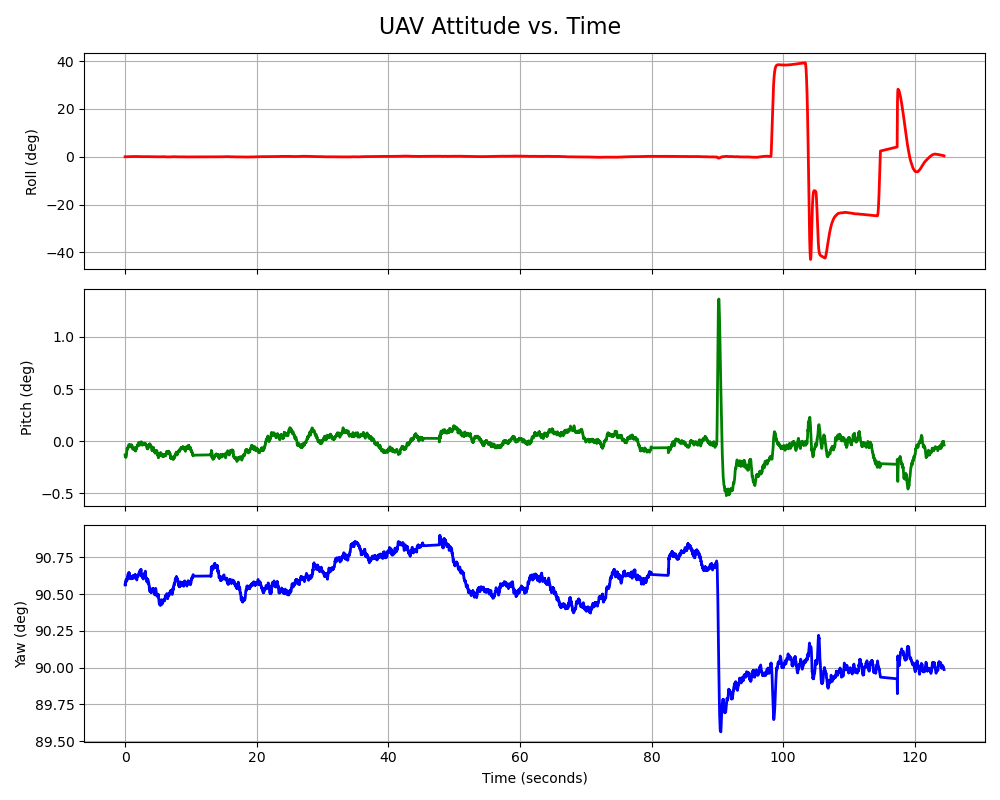
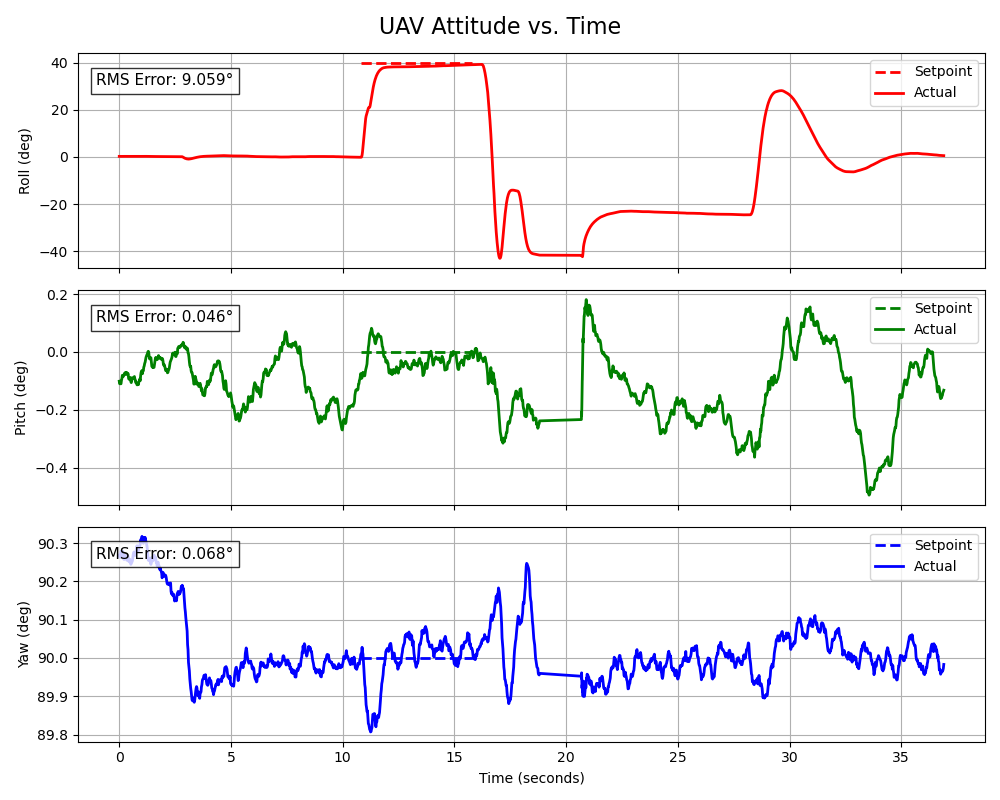
Updated data_recording script to calculate RMS and show setpoint regions on plots

diff --git a/data_recording/real_time_recorder.py b/data_recording/real_time_recorder.py
@@ -4,10 +4,12 @@ from rclpy.qos import qos_profile_sensor_data
 from px4_msgs.msg import VehicleLocalPosition
 from px4_msgs.msg import VehicleStatus
 from px4_msgs.msg import VehicleAttitude
+from px4_msgs.msg import VehicleAttitudeSetpoint # <-- ADDED IMPORT
 from rclpy.executors import ExternalShutdownException
 import matplotlib.pyplot as plt
 import time
 import math
+import numpy as np
 
 class local_position_plotter(Node):
     def __init__(self):
@@ -35,6 +37,13 @@ class local_position_plotter(Node):
             qos_profile_sensor_data
         )
 
+        self.attitude_sp_subscription = self.create_subscription(
+            VehicleAttitudeSetpoint,
+            '/fmu/in/vehicle_attitude_setpoint_v1',
+            self.attitude_setpoint_callback,
+            qos_profile_sensor_data
+        )
+
         # Start at 0 (Init)
         self.previous_arming_state = 0
         
@@ -48,6 +57,11 @@ class local_position_plotter(Node):
         self.pitch_data = []
         self.yaw_data = []
         
+        self.attitude_sp_times = []
+        self.roll_sp_data = []
+        self.pitch_sp_data = []
+        self.yaw_sp_data = []
+
         self.start_time = None
         self.get_logger().info('Position Plotter Node started. Recording data...')
         self.get_logger().info('Press Ctrl+C to stop recording and generate graphs.')
@@ -94,6 +108,34 @@ class local_position_plotter(Node):
         self.pitch_data.append(math.degrees(pitch))
         self.yaw_data.append(math.degrees(yaw))
 
+    # SETPOINT CALLBACK (Identical math, but uses msg.q_d)
+    def attitude_setpoint_callback(self, msg):
+        if self.start_time is None:
+            self.start_time = time.time()
+            
+        current_time = time.time() - self.start_time
+        
+        q = msg.q_d # Notice this is q_d for desired quaternion
+        
+        sinr_cosp = 2 * (q[0] * q[1] + q[2] * q[3])
+        cosr_cosp = 1 - 2 * (q[1] * q[1] + q[2] * q[2])
+        roll = math.atan2(sinr_cosp, cosr_cosp)
+
+        sinp = 2 * (q[0] * q[2] - q[3] * q[1])
+        if abs(sinp) >= 1:
+            pitch = math.copysign(math.pi / 2, sinp) 
+        else:
+            pitch = math.asin(sinp)
+
+        siny_cosp = 2 * (q[0] * q[3] + q[1] * q[2])
+        cosy_cosp = 1 - 2 * (q[2] * q[2] + q[3] * q[3])
+        yaw = math.atan2(siny_cosp, cosy_cosp)
+
+        self.attitude_sp_times.append(current_time)
+        self.roll_sp_data.append(math.degrees(roll))
+        self.pitch_sp_data.append(math.degrees(pitch))
+        self.yaw_sp_data.append(math.degrees(yaw))
+
     def status_callback(self, msg):
         if self.previous_arming_state == 2 and msg.arming_state != 2:
             
@@ -129,22 +171,76 @@ class local_position_plotter(Node):
         # plt.tight_layout()
         # plt.savefig("data_recording/tmp/previous_run_position.png")
 
+        # Safety check: Did we actually receive any attitude setpoints before shutting down?
+        has_setpoints = len(self.attitude_sp_times) > 0
+
+        # --- CALCULATE RMS ERROR ---
+        if has_setpoints:
+            actual_times = np.array(self.attitude_times)
+            sp_times = np.array(self.attitude_sp_times)
+            
+            # Create a mask to only evaluate actual data while setpoints were being published
+            valid_mask = (actual_times >= sp_times[0]) & (actual_times <= sp_times[-1])
+            valid_actual_times = actual_times[valid_mask]
+            
+            # Roll
+            aligned_sp_roll = np.interp(valid_actual_times, sp_times, np.array(self.roll_sp_data))
+            roll_error = np.array(self.roll_data)[valid_mask] - aligned_sp_roll
+            rms_roll = np.sqrt(np.mean(np.square(roll_error)))
+            rms_text_roll = f"RMS Error: {rms_roll:.3f}°"
+
+            # Pitch
+            aligned_sp_pitch = np.interp(valid_actual_times, sp_times, np.array(self.pitch_sp_data))
+            pitch_error = np.array(self.pitch_data)[valid_mask] - aligned_sp_pitch
+            rms_pitch = np.sqrt(np.mean(np.square(pitch_error)))
+            rms_text_pitch = f"RMS Error: {rms_pitch:.3f}°"
+
+            # Yaw
+            aligned_sp_yaw = np.interp(valid_actual_times, sp_times, np.array(self.yaw_sp_data))
+            # Basic subtraction (assumes tests stay away from the -180/180 wrap-around boundary)
+            yaw_error = np.array(self.yaw_data)[valid_mask] - aligned_sp_yaw 
+            rms_yaw = np.sqrt(np.mean(np.square(yaw_error)))
+            rms_text_yaw = f"RMS Error: {rms_yaw:.3f}°"
+        else:
+            print("WARNING: No attitude setpoints received! Skipping RMS calculation.")
+            rms_text_roll = "RMS Error: N/A"
+            rms_text_pitch = "RMS Error: N/A"
+            rms_text_yaw = "RMS Error: N/A"
+
         # --- ATTITUDE GRAPH ---
         fig2, (ax4, ax5, ax6) = plt.subplots(3, 1, figsize=(10, 8), sharex=True)
         fig2.suptitle('UAV Attitude vs. Time', fontsize=16)
 
-        ax4.plot(self.attitude_times, self.roll_data, 'r-', linewidth=2)
+        # Plot Roll
+        if has_setpoints:
+            ax4.plot(self.attitude_sp_times, self.roll_sp_data, 'r--', linewidth=2, label='Setpoint')
+        ax4.plot(self.attitude_times, self.roll_data, 'r-', linewidth=2, label='Actual')
         ax4.set_ylabel('Roll (deg)')
+        ax4.legend(loc="upper right")
         ax4.grid(True)
+        ax4.text(0.02, 0.85, rms_text_roll, transform=ax4.transAxes, fontsize=11,
+                 bbox=dict(facecolor='white', edgecolor='black', alpha=0.8))
 
-        ax5.plot(self.attitude_times, self.pitch_data, 'g-', linewidth=2)
+        # Plot Pitch
+        if has_setpoints:
+            ax5.plot(self.attitude_sp_times, self.pitch_sp_data, 'g--', linewidth=2, label='Setpoint')
+        ax5.plot(self.attitude_times, self.pitch_data, 'g-', linewidth=2, label='Actual')
         ax5.set_ylabel('Pitch (deg)')
+        ax5.legend(loc="upper right")
         ax5.grid(True)
+        ax5.text(0.02, 0.85, rms_text_pitch, transform=ax5.transAxes, fontsize=11,
+                 bbox=dict(facecolor='white', edgecolor='black', alpha=0.8))
 
-        ax6.plot(self.attitude_times, self.yaw_data, 'b-', linewidth=2)
+        # Plot Yaw
+        if has_setpoints:
+            ax6.plot(self.attitude_sp_times, self.yaw_sp_data, 'b--', linewidth=2, label='Setpoint')
+        ax6.plot(self.attitude_times, self.yaw_data, 'b-', linewidth=2, label='Actual')
         ax6.set_ylabel('Yaw (deg)')
         ax6.set_xlabel('Time (seconds)')
+        ax6.legend(loc="upper right")
         ax6.grid(True)
+        ax6.text(0.02, 0.85, rms_text_yaw, transform=ax6.transAxes, fontsize=11,
+                 bbox=dict(facecolor='white', edgecolor='black', alpha=0.8))
 
         fig2.tight_layout()
         fig2.savefig("data_recording/tmp/previous_run_attitude.png")
